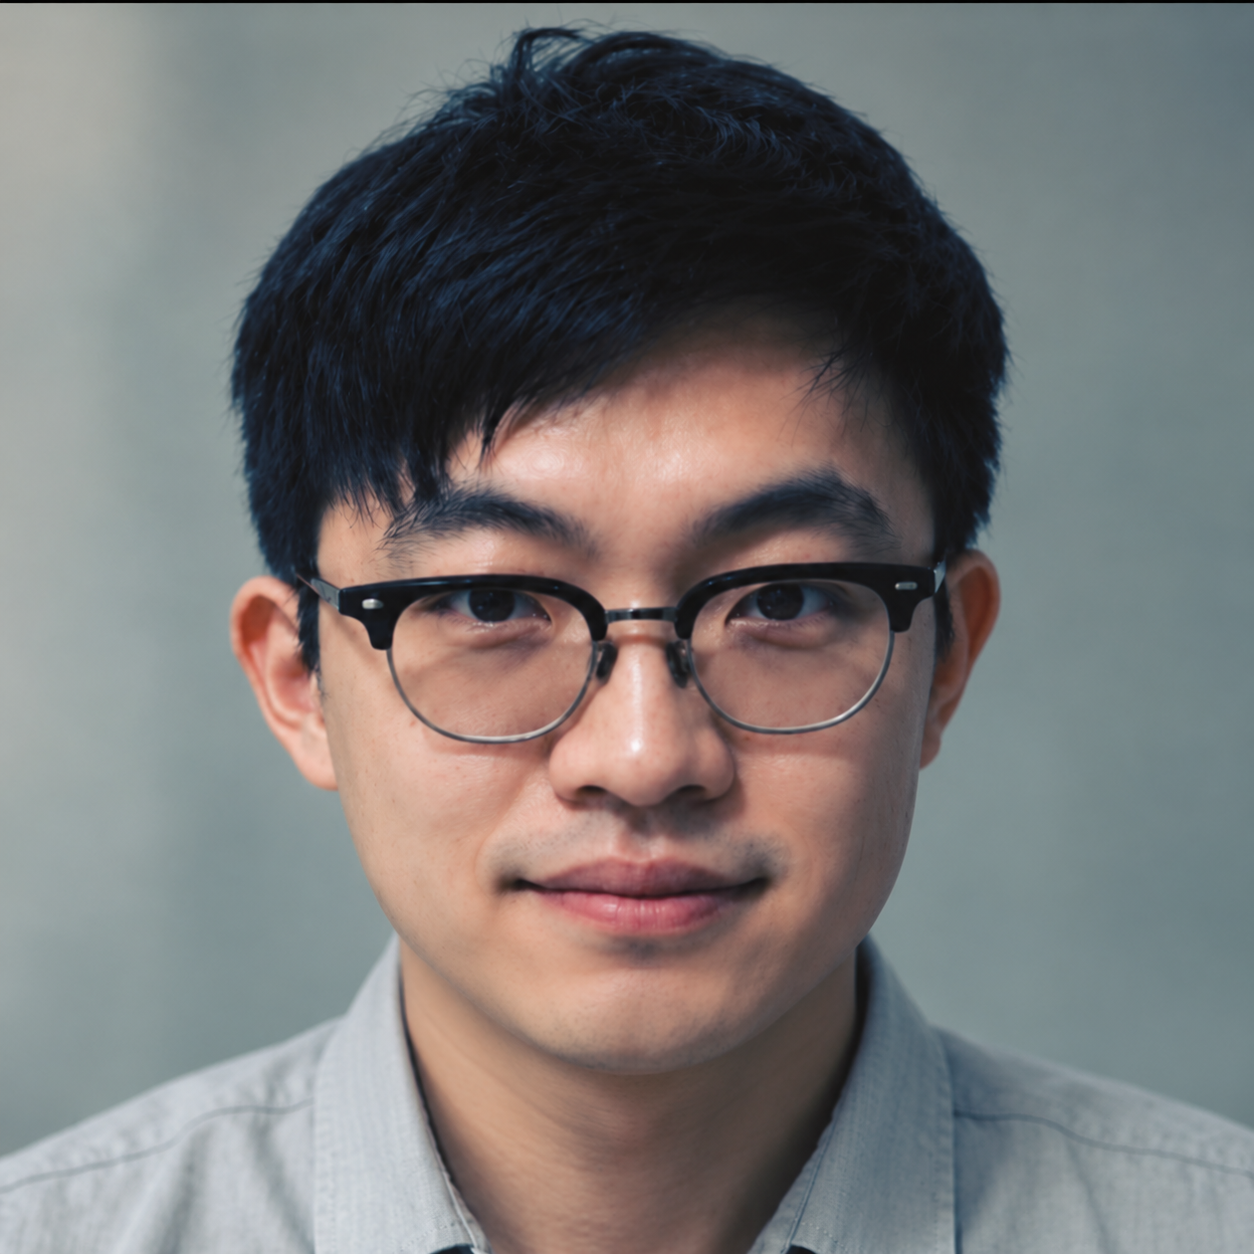
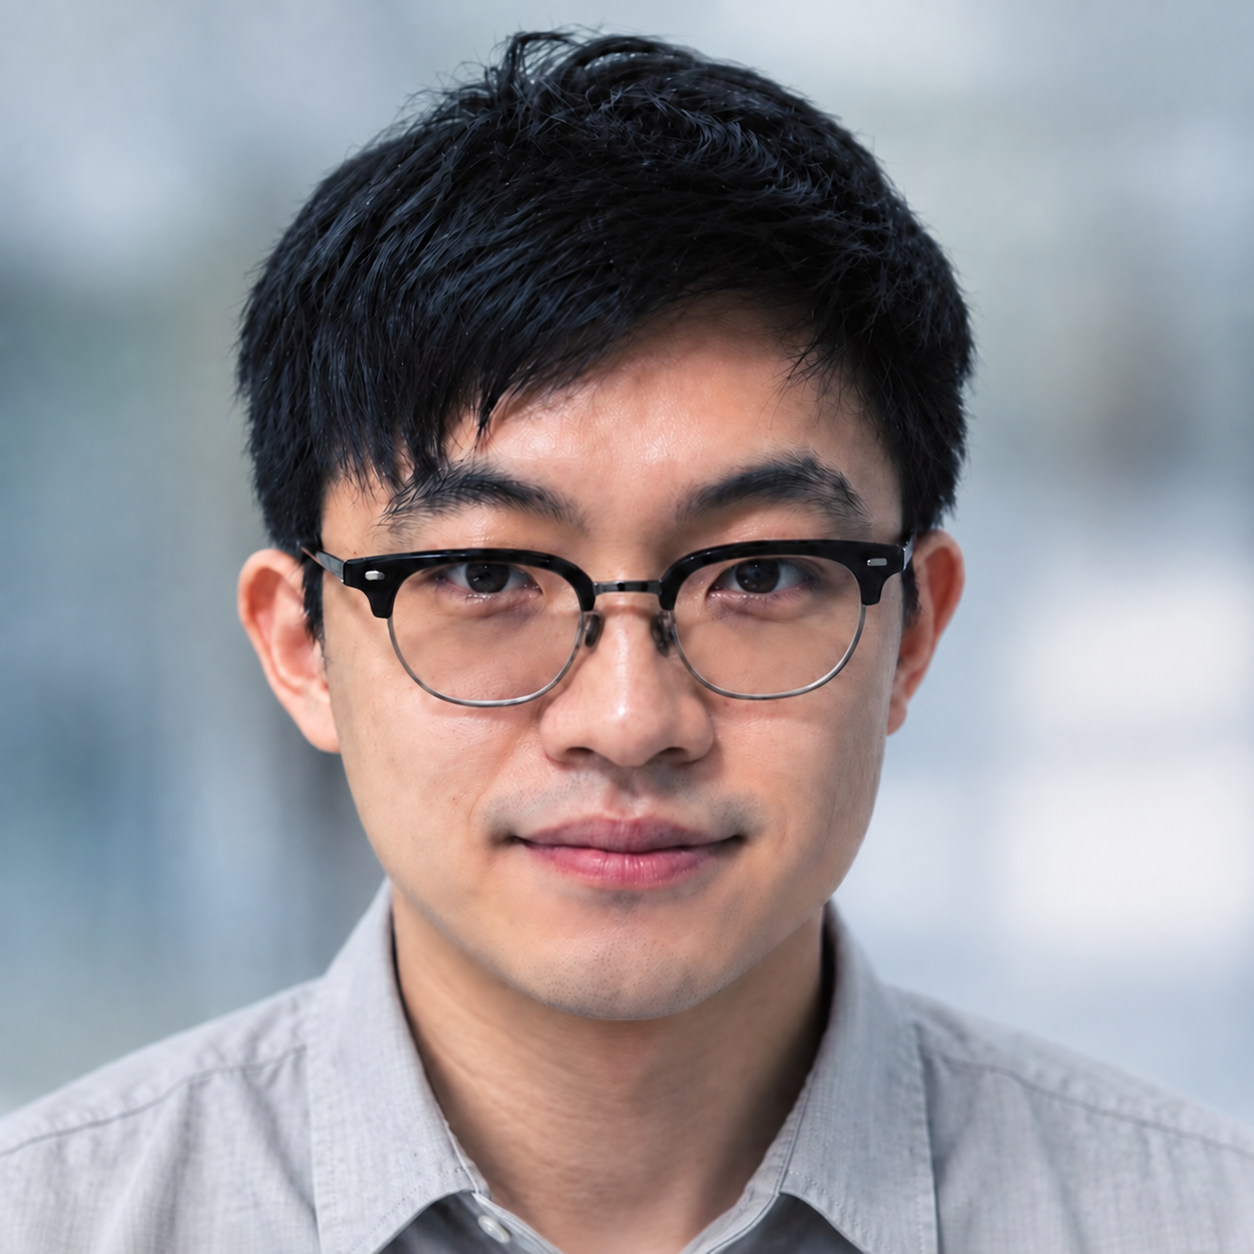
Update

diff --git a/index.html b/index.html
@@ -395,7 +395,7 @@
         <section class="profile-section">
             <div class="profile-left">
                 <div class="profile-photo">
-                    <img src="assets/images/profile-2026.png" alt="Rui Wang" style="width: 100%; height: 100%; object-fit: cover; border-radius: 8px;">
+                    <img src="assets/images/profile-2026.png?v=2" alt="Rui Wang" style="width: 100%; height: 100%; object-fit: cover; border-radius: 8px;">
                 </div>
                 <div class="contact-links">
                     <a href="https://x.com/theruiwang">X</a> /
